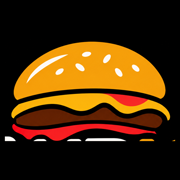
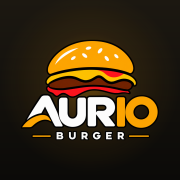
Make the site an installable PWA
- Web app manifest: standalone display, brand colours, any + maskable
  icons, shortcuts and screenshots for the richer Android install sheet
- New icons generated from the transparent logo (app, maskable, Apple
  touch icon, burger-only favicon)
- Service worker: network-first for page/CSS/JS, cache-first for images
  and fonts, offline fallback to the cached page
- Install banner shown on mobile 3 s after arrival: native prompt on
  Android/Chrome, "Adicionar ao ecrã principal" instructions on iOS;
  "Agora não" snoozes it for 7 days; "Instalar a app" link in the footer
- Netlify headers: no-cache for sw.js, manifest content type

diff --git a/site/index.html b/site/index.html
@@ -28,16 +28,26 @@
   <meta name="twitter:image" content="assets/img/og-image.jpg">
 
   <link rel="icon" type="image/png" sizes="48x48" href="favicon-48.png">
-  <link rel="icon" type="image/png" sizes="512x512" href="favicon-512.png">
+  <link rel="icon" type="image/png" sizes="192x192" href="assets/img/icons/icon-192.png">
   <link rel="apple-touch-icon" href="apple-touch-icon.png">
   <link rel="manifest" href="site.webmanifest">
+
+  <!-- App instalável (PWA) -->
+  <meta name="mobile-web-app-capable" content="yes">
+  <meta name="apple-mobile-web-app-capable" content="yes">
+  <meta name="apple-mobile-web-app-title" content="Aurio Burger">
+  <meta name="apple-mobile-web-app-status-bar-style" content="black">
 
   <link rel="preconnect" href="https://fonts.googleapis.com">
   <link rel="preconnect" href="https://fonts.gstatic.com" crossorigin>
   <link href="https://fonts.googleapis.com/css2?family=Manrope:wght@400;500;600;700&family=Sora:wght@500;600;700&display=swap" rel="stylesheet">
   <link rel="stylesheet" href="assets/css/styles.css">
 
-  <script>document.documentElement.classList.add('js');</script>
+  <script>
+    document.documentElement.classList.add('js');
+    // Guarda o pedido de instalação da app caso chegue antes de main.js
+    window.addEventListener('beforeinstallprompt', function (e) { e.preventDefault(); window.__installEvent = e; });
+  </script>
   <script type="application/ld+json">
   {
     "@context": "https://schema.org",
@@ -87,6 +97,8 @@
     <symbol id="i-phone" viewBox="0 0 24 24"><rect width="14" height="20" x="5" y="2" rx="2"/><path d="M12 18h.01"/></symbol>
     <symbol id="i-map" viewBox="0 0 24 24"><path d="M14.106 5.553a2 2 0 0 0 1.788 0l3.659-1.83A1 1 0 0 1 21 4.619v12.764a1 1 0 0 1-.553.894l-4.553 2.277a2 2 0 0 1-1.788 0l-4.212-2.106a2 2 0 0 0-1.788 0l-3.659 1.83A1 1 0 0 1 3 19.381V6.618a1 1 0 0 1 .553-.894l4.553-2.277a2 2 0 0 1 1.788 0z"/><path d="M15 5.764v15"/><path d="M9 3.236v15"/></symbol>
     <symbol id="i-layers" viewBox="0 0 24 24"><path d="m12.83 2.18a2 2 0 0 0-1.66 0L2.6 6.08a1 1 0 0 0 0 1.83l8.58 3.91a2 2 0 0 0 1.66 0l8.58-3.9a1 1 0 0 0 0-1.83Z"/><path d="m22 17.65-9.17 4.16a2 2 0 0 1-1.66 0L2 17.65"/><path d="m22 12.65-9.17 4.16a2 2 0 0 1-1.66 0L2 12.65"/></symbol>
+    <symbol id="i-share" viewBox="0 0 24 24"><path d="M4 12v8a2 2 0 0 0 2 2h12a2 2 0 0 0 2-2v-8"/><path d="m16 6-4-4-4 4"/><path d="M12 2v13"/></symbol>
+    <symbol id="i-download" viewBox="0 0 24 24"><path d="M21 15v4a2 2 0 0 1-2 2H5a2 2 0 0 1-2-2v-4"/><path d="m7 10 5 5 5-5"/><path d="M12 15V3"/></symbol>
     <symbol id="i-wallet" viewBox="0 0 24 24"><path d="M19 7V4a1 1 0 0 0-1-1H5a2 2 0 0 0 0 4h15a1 1 0 0 1 1 1v4h-3a2 2 0 0 0 0 4h3a1 1 0 0 0 1-1v-2a1 1 0 0 0-1-1"/><path d="M3 5v14a2 2 0 0 0 2 2h15a1 1 0 0 0 1-1v-4"/></symbol>
   </svg>
 
@@ -566,6 +578,7 @@
           <li><a href="#como-encomendar">Como encomendar</a></li>
           <li><a href="#faq">Perguntas frequentes</a></li>
           <li><a href="https://wa.me/244937722482" data-wa="geral" target="_blank" rel="noopener">Encomendar</a></li>
+          <li><button type="button" class="footer-install" data-install-open hidden><svg class="icon" aria-hidden="true"><use href="#i-download"/></svg> Instalar a app</button></li>
         </ul>
       </nav>
       <div>
@@ -597,6 +610,20 @@
       <svg class="icon" aria-hidden="true"><use href="#i-whatsapp"/></svg>
     </a>
   </div>
+
+  <!-- ============ INSTALAR A APP (PWA) ============ -->
+  <section class="install" data-install aria-labelledby="install-title" hidden>
+    <img class="install-icon" src="assets/img/icons/icon-192.png" width="192" height="192" alt="">
+    <div class="install-copy">
+      <h2 id="install-title">Instala a app Aurio Burger</h2>
+      <p data-install-text>Tem o menu sempre à mão, direto do ecrã principal do teu telemóvel.</p>
+      <p data-install-ios hidden>Toca em <svg class="icon" aria-hidden="true"><use href="#i-share"/></svg> <strong>Partilhar</strong> (no Safari pode estar dentro do menu <strong>⋯</strong>) e escolhe <strong>«Adicionar ao ecrã principal»</strong>.</p>
+    </div>
+    <div class="install-actions">
+      <button class="btn btn-primary btn-sm" type="button" data-install-accept><svg class="icon" aria-hidden="true"><use href="#i-download"/></svg> Instalar</button>
+      <button class="btn btn-ghost btn-sm" type="button" data-install-dismiss>Agora não</button>
+    </div>
+  </section>
 
   <!-- ============ CARRINHO ============ -->
   <dialog class="cart" data-cart aria-labelledby="cart-title">

diff --git a/site/assets/js/main.js b/site/assets/js/main.js
@@ -395,6 +395,96 @@
     reveals.forEach(function (el) { el.classList.add('is-in'); });
   }
 
+  /* ---------- App (PWA): service worker e instalação ---------- */
+  if ('serviceWorker' in navigator && /^https?:$/.test(location.protocol)) {
+    window.addEventListener('load', function () {
+      navigator.serviceWorker.register('sw.js').catch(function () { /* sem modo offline: o site funciona na mesma */ });
+    });
+  }
+
+  var install = $('[data-install]');
+  var installAccept = $('[data-install-accept]');
+  var installDismiss = $('[data-install-dismiss]');
+  var installText = $('[data-install-text]');
+  var installIOS = $('[data-install-ios]');
+  var installOpeners = $$('[data-install-open]');
+  var INSTALL_KEY = 'aurio-install-dismissed';
+  var INSTALL_SNOOZE = 7 * 24 * 60 * 60 * 1000; // volta a sugerir passados 7 dias
+  var INSTALL_DELAY = 3000;
+
+  var ua = navigator.userAgent;
+  var installEvent = window.__installEvent || null; // capturado no <head>
+  var isInstalled = window.matchMedia('(display-mode: standalone)').matches || navigator.standalone === true;
+  var isIOS = /iphone|ipad|ipod/i.test(ua) || (navigator.platform === 'MacIntel' && navigator.maxTouchPoints > 1);
+  var isInAppBrowser = /FBAN|FBAV|Instagram|Line\/|TikTok|Snapchat/i.test(ua); // não permitem instalar
+  var iosHelp = isIOS && !isInAppBrowser; // o iOS não tem pedido automático: mostramos as instruções
+  var isMobile = window.matchMedia('(max-width: 959px), (pointer: coarse)').matches;
+  var autoScheduled = false;
+
+  function installSnoozed() {
+    try { return Date.now() - Number(localStorage.getItem(INSTALL_KEY) || 0) < INSTALL_SNOOZE; } catch (e) { return false; }
+  }
+  function snoozeInstall() {
+    try { localStorage.setItem(INSTALL_KEY, String(Date.now())); } catch (e) { /* modo privado: ignora */ }
+  }
+  function canInstall() { return !isInstalled && (installEvent || iosHelp); }
+
+  function updateInstallOpeners() {
+    installOpeners.forEach(function (b) { b.hidden = !canInstall(); });
+  }
+  function showInstall() {
+    if (!canInstall()) return;
+    var native = !!installEvent;
+    installText.hidden = !native;
+    installIOS.hidden = native;
+    installAccept.hidden = !native;
+    installDismiss.textContent = native ? 'Agora não' : 'Entendi';
+    install.hidden = false;
+  }
+  function hideInstall() { install.hidden = true; }
+
+  // Ao entrar no site (telemóvel), sugere a instalação uma vez, sem insistir
+  function scheduleInstallBanner() {
+    if (autoScheduled || !isMobile || !canInstall() || installSnoozed()) return;
+    autoScheduled = true;
+    setTimeout(showInstall, INSTALL_DELAY);
+  }
+
+  function promptInstall() {
+    if (!installEvent) { showInstall(); return; }
+    var e = installEvent;
+    installEvent = null; // cada pedido do navegador só pode ser usado uma vez
+    hideInstall();
+    e.prompt();
+    e.userChoice.then(function (choice) {
+      if (choice.outcome !== 'accepted') snoozeInstall();
+      updateInstallOpeners();
+    }).catch(function () {});
+  }
+
+  window.addEventListener('beforeinstallprompt', function (e) {
+    e.preventDefault();
+    installEvent = e;
+    updateInstallOpeners();
+    scheduleInstallBanner();
+  });
+  window.addEventListener('appinstalled', function () {
+    isInstalled = true;
+    installEvent = null;
+    hideInstall();
+    updateInstallOpeners();
+  });
+
+  installAccept.addEventListener('click', promptInstall);
+  installDismiss.addEventListener('click', function () { snoozeInstall(); hideInstall(); });
+  install.addEventListener('keydown', function (e) {
+    if (e.key === 'Escape') { snoozeInstall(); hideInstall(); }
+  });
+  installOpeners.forEach(function (b) { b.addEventListener('click', promptInstall); });
+
+  updateInstallOpeners();
+  scheduleInstallBanner();
+
   /* ---------- Ano automático ---------- */
   $$('[data-year]').forEach(function (el) { el.textContent = new Date().getFullYear(); });
 

diff --git a/site/sw.js b/site/sw.js
@@ -1,0 +1,93 @@
+/* =========================================================
+   Aurio Burger — service worker (PWA)
+   - Página, CSS e JS: rede primeiro, cache como reserva (sem rede)
+   - Imagens e fontes: cache primeiro, atualizadas em segundo plano
+   Ao publicar alterações grandes, subir CACHE_VERSION para limpar caches antigas.
+   ========================================================= */
+var CACHE_VERSION = 'v1';
+var PRECACHE = 'aurio-precache-' + CACHE_VERSION;
+var RUNTIME = 'aurio-runtime-' + CACHE_VERSION;
+
+var PRECACHE_URLS = [
+  './',
+  'assets/css/styles.css',
+  'assets/js/main.js',
+  'site.webmanifest',
+  'favicon-48.png',
+  'apple-touch-icon.png',
+  'assets/img/logo-240.webp',
+  'assets/img/logo-480.webp',
+  'assets/img/icons/icon-192.png',
+  'assets/img/icons/icon-512.png'
+];
+
+self.addEventListener('install', function (event) {
+  event.waitUntil(
+    caches.open(PRECACHE)
+      .then(function (cache) { return cache.addAll(PRECACHE_URLS); })
+      .then(function () { return self.skipWaiting(); })
+  );
+});
+
+self.addEventListener('activate', function (event) {
+  event.waitUntil(
+    caches.keys().then(function (keys) {
+      return Promise.all(keys.map(function (key) {
+        if (key !== PRECACHE && key !== RUNTIME) return caches.delete(key);
+      }));
+    }).then(function () { return self.clients.claim(); })
+  );
+});
+
+function networkFirst(request, fallbackUrl) {
+  return fetch(request).then(function (response) {
+    if (response.ok) {
+      var copy = response.clone();
+      caches.open(RUNTIME).then(function (cache) { cache.put(request, copy); });
+    }
+    return response;
+  }).catch(function () {
+    return caches.match(request, { ignoreSearch: true })
+      .then(function (cached) { return cached || (fallbackUrl && caches.match(fallbackUrl)); })
+      .then(function (cached) { return cached || Response.error(); });
+  });
+}
+
+function staleWhileRevalidate(event) {
+  var request = event.request;
+  return caches.open(RUNTIME).then(function (cache) {
+    return cache.match(request).then(function (cached) {
+      var update = fetch(request).then(function (response) {
+        // Respostas opacas (status 0) das fontes também são guardadas
+        if (response.ok || response.type === 'opaque') cache.put(request, response.clone());
+        return response;
+      });
+      if (cached) {
+        event.waitUntil(update.catch(function () {}));
+        return cached;
+      }
+      return update;
+    });
+  });
+}
+
+self.addEventListener('fetch', function (event) {
+  var request = event.request;
+  if (request.method !== 'GET') return;
+
+  var url = new URL(request.url);
+  var sameOrigin = url.origin === self.location.origin;
+  var isFont = url.hostname === 'fonts.googleapis.com' || url.hostname === 'fonts.gstatic.com';
+
+  if (request.mode === 'navigate') {
+    event.respondWith(networkFirst(request, './'));
+    return;
+  }
+  if (!sameOrigin && !isFont) return; // WhatsApp e outros domínios: sem intervenção
+
+  if (isFont || request.destination === 'image') {
+    event.respondWith(staleWhileRevalidate(event));
+    return;
+  }
+  if (sameOrigin) event.respondWith(networkFirst(request));
+});

diff --git a/site/assets/css/styles.css b/site/assets/css/styles.css
@@ -610,6 +610,12 @@ h3 { font-size: 1.25rem; font-weight: 600; }
 .site-footer ul a { display: inline-block; padding: 6px 0; text-decoration: none; color: var(--muted); overflow-wrap: anywhere; }
 .site-footer ul a:hover { color: var(--gold-hi); }
 .site-footer p + p { margin-top: 8px; }
+.footer-install {
+  display: inline-flex; align-items: center; gap: 8px; padding: 6px 0; min-height: 36px;
+  background: none; border: 0; color: var(--gold); font-family: var(--font-body); font-size: inherit; font-weight: 700;
+}
+.footer-install:hover { color: var(--gold-hi); }
+.footer-install .icon { width: 18px; height: 18px; }
 .footer-bottom {
   padding-bottom: 96px !important;
   display: grid; gap: 10px; margin-top: 48px; padding-block: 24px 32px;
@@ -650,6 +656,28 @@ body.has-cart { padding-bottom: calc(88px + env(safe-area-inset-bottom)); }
 @media (min-width: 960px) {
   .dock { display: none; }
   body.has-cart { padding-bottom: 0; }
+}
+
+/* ---------- Instalar a app (PWA) ---------- */
+.install {
+  position: fixed; z-index: 45;
+  left: 12px; right: 12px; bottom: calc(12px + env(safe-area-inset-bottom));
+  display: grid; grid-template-columns: auto 1fr; align-items: center; gap: 16px 14px;
+  padding: 16px; border-radius: var(--radius);
+  background: var(--surface); border: 1px solid var(--line-strong);
+  box-shadow: 0 -8px 40px -12px rgba(247, 158, 10, 0.25), 0 24px 60px -16px rgba(0, 0, 0, 0.9);
+  animation: install-in 420ms var(--ease);
+}
+.install-icon { width: 60px; height: 60px; border-radius: 14px; }
+.install-copy h2 { font-size: 1.0625rem; line-height: 1.25; letter-spacing: -0.01em; }
+.install-copy p { margin: 4px 0 0; color: var(--muted); font-size: 0.875rem; line-height: 1.45; }
+.install-copy strong { color: var(--cream); font-weight: 700; }
+.install-copy .icon { width: 16px; height: 16px; vertical-align: -3px; color: var(--gold); }
+.install-actions { grid-column: 1 / -1; display: flex; gap: 10px; }
+.install-actions .btn { flex: 1; }
+@keyframes install-in { from { transform: translateY(24px); opacity: 0; } }
+@media (min-width: 640px) {
+  .install { left: auto; right: 24px; bottom: calc(24px + env(safe-area-inset-bottom)); width: 400px; }
 }
 
 /* ---------- Carrinho ---------- */
